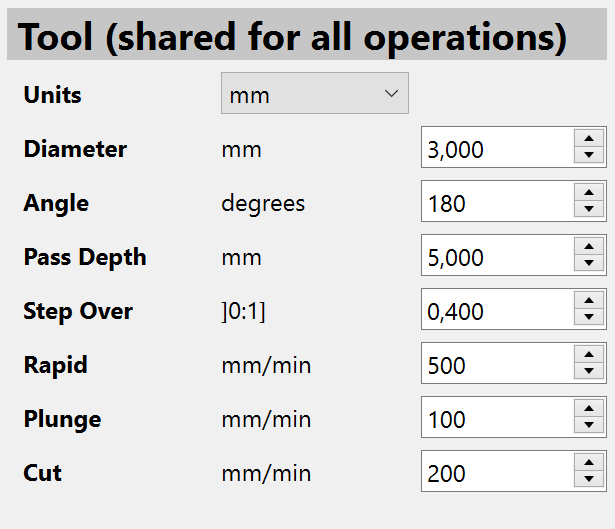
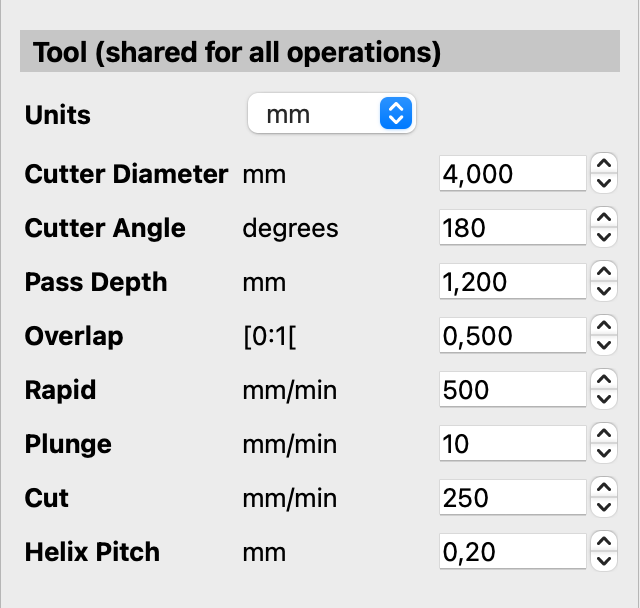
c

diff --git a/resources/doc/tutorial.html b/resources/doc/tutorial.html
@@ -455,13 +455,11 @@ case of multiple operations enabled, as the project name, with ending suffix "nc
 <div>
 <img src="qrc:/doc/images/pycut_svgsettings.png" width="310px"> </div>
 
-<h4>Title</h4>
-
-<p>This will display the SVG title if set</p>
-
-<h4>Width</h4>
-
-<h4>Height</h4>
+<ul>
+  <li><strong>Title</strong>: the SVG title if set in the svg file (can be empty)</li>
+  <li><strong>Width</strong>:  the SVG width set in the svg file</li>
+  <li><strong>Height</strong>: the SVG height set in the svg file</li>
+</ul>
 
 <p></p>
 
@@ -469,6 +467,31 @@ case of multiple operations enabled, as the project name, with ending suffix "nc
 
 <div>
 <img src="qrc:/doc/images/pycut_tool.png" width="310"> </div>
+
+<ul>
+  <li><strong>Overlap</strong>: <p>The <strong>Overlap</strong> setting is akind the standard "Stepover" value</p>
+<code> Overlap = 1 - Stepover</code>
+<p>although the overlap meaning is easier to remember to me...</p></li>
+  <li><strong>Helix Pitch</strong>:<p>The revolution depth of the helix. During an Helix operation, the cutter goes continously
+    downwards, performing at the same time a circle. Theoretically, the Helix operation could perform threads cutting 
+    (utilizing a dedicated cutter) by generating first an hole, then an helix "inside the hole" where the outer radius of the 
+    helix would be a bit larger than the hole radius.</p></li>
+</ul>
+
+<h3 id="P-04-05">Curve to Line Conversion</h3>
+
+<p>If your design contain curves (svg "arcs" or "bezier" curves), they have to be discretized in small segments.</p>
+
+<div>
+<img src="qrc:/doc/images/pycut_curve_to_line_conversion.png" width="300"></div>
+
+<p>The 2 following parameters allow to specified how fine the curve discretization from the SVG shape will be:</p>
+<ul>
+  <li>Minimun number of segments</li>
+  <li>Minimum Segments length</li>
+</ul>
+
+<p>Nevertheless, a Shapely "simplify" will also occur at the beginning of the CAM operations.</p>
 
 <h3 id="P-04-03">Tabs</h3>
 
@@ -481,9 +504,10 @@ ignored for Pocket operations</strong>.</p>
 <div>
 <img src="qrc:/doc/images/pycut_tabs.png" width="310"> </div>
 
-<p></p>
+<p>The option <strong>Retract</strong> is set per default to "REtract to Clearance", but this can be unchecked and the tool will
+  retract only to the tab height, which is potentially wrong if the travel on the tab go through the material.</p>
 
-<p>You can check the Gcode generation in the viewer/simulator if everythings is Ok. </p>
+<p>You can check the Gcode generation in the viewer/simulator if everythings is Ok.</p>
 
 <h3 id="P-04-04">Material</h3>
 
@@ -506,19 +530,6 @@ CAM operation should not exceed this value (no check performed). The depth cut o
 material real thickness, or only exceeding it with a minimal value, only to be sure to cut through, and knowing there
 is a spoilboard that has an acceptable thickness.</p>
 </div>
-
-<h3 id="P-04-05">Curve to Line Conversion</h3>
-
-<p>If your design contain curves (svg "arcs" or "bezier" curves), they have to be discretized in small segments.</p>
-
-<div>
-<img src="qrc:/doc/images/pycut_curve_to_line_conversion.png" width="300"></div>
-
-<p>The 2 following parameters allow to specified how fine the curve discretization will be:</p>
-<ul>
-  <li>Minimun number of segments</li>
-  <li>Minimum Segments length</li>
-</ul>
 
 <h3 id="P-04-06">GCode Conversion</h3>
 
@@ -717,7 +728,7 @@ cut. </p>
 
 <p>The helix pitch (revolution depth) is the most important parameter. Theoretically, the Helix operation could perform
 threads cutting by generating first an hole, then an helix "inside the hole" where the outer radius of the helix would
-be smaller than the hole radius, and utilizing a dedicated cutter.</p>
+be smaller (or larger ?) than the hole radius, and utilizing a dedicated cutter.</p>
 
 <h3 id="P-05-05">Pockets</h3>
 
